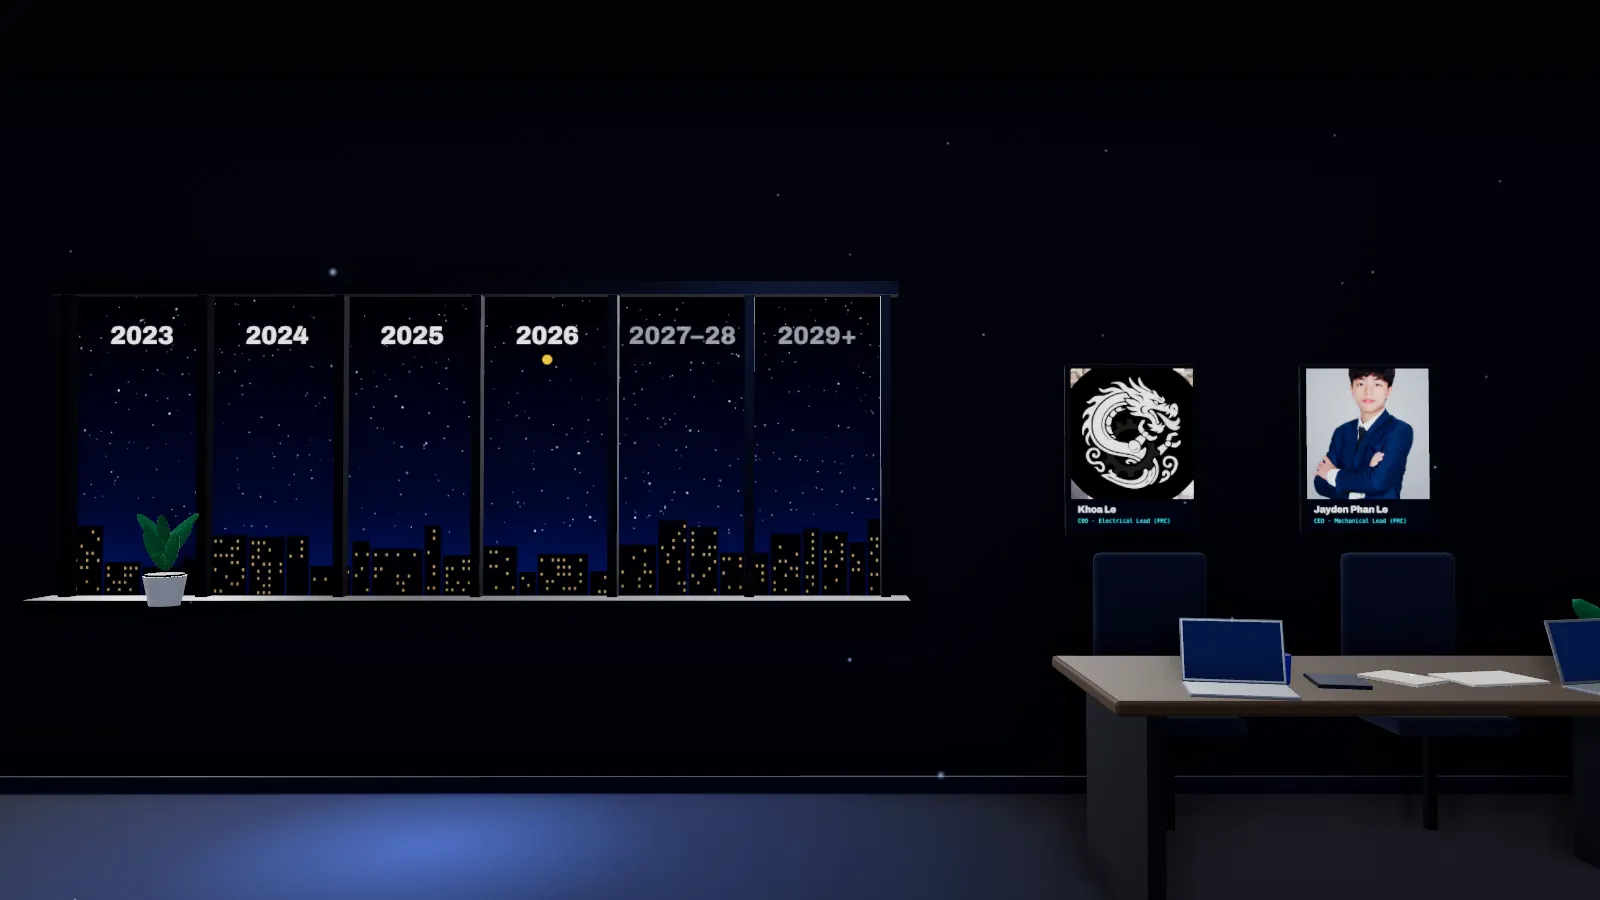
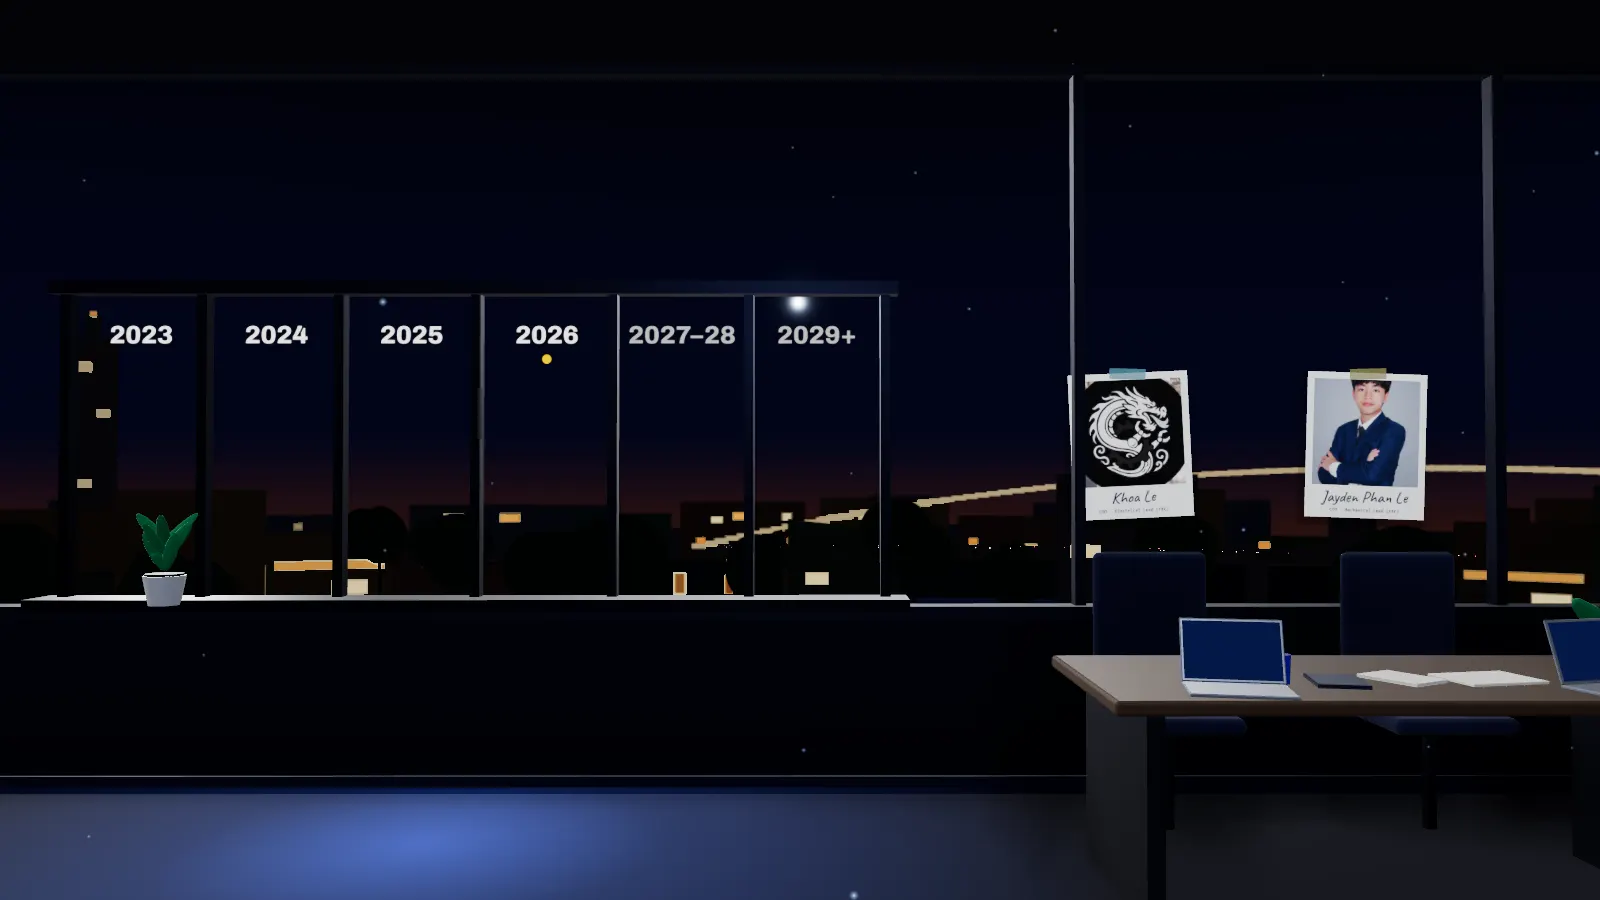
Studio stills: rendered again from the current room
The sketch still (behind the About page and the mini drone chapter) showed the old roadmap
with "we are here" on parts; it now matches drone.ts (printed mounts now, first hover &
tuning planned). The back-wall scenes show the glass wall and the night city. Same settings
as scripts/studio-stills.py (dark, high quality, WebP q78, no metadata).

diff --git a/scripts/studio-stills.py b/scripts/studio-stills.py
@@ -54,7 +54,7 @@ def main() -> None:
             if only and scene not in only:
                 continue
             page.evaluate(f"window.__studio.go({i})")
-            page.wait_for_timeout(12000)  # the lamp, the drone's lift-off, the whiteboard writing itself out
+            page.wait_for_timeout(12000)  # the lamp, the drone's LED, the whiteboard writing itself out (the drone never lifts off: not flown yet)
             with tempfile.NamedTemporaryFile(suffix=".png", delete=False) as tmp:
                 page.locator(".studio-stage canvas").screenshot(path=tmp.name)
             for width, name in ((SIZE["width"], f"{scene}.webp"), (SMALL, f"{scene}-{SMALL}.webp")):
